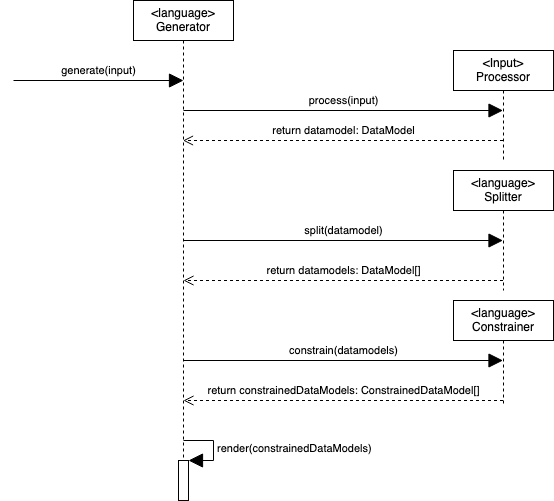
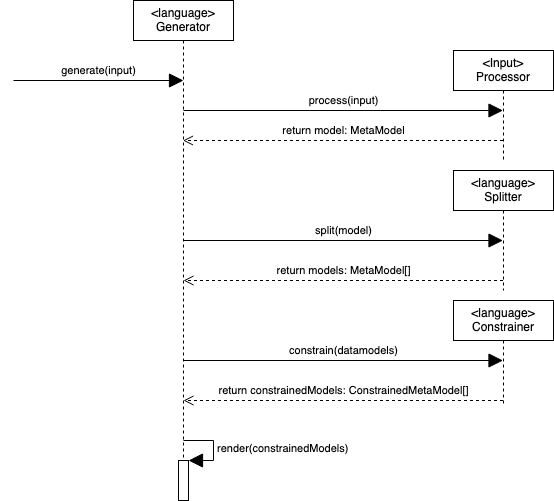
Added missing changes

diff --git a/docs/README.md b/docs/README.md
@@ -4,7 +4,7 @@
 
 <!-- toc -->
 
-- [The data model](#the-data-model)
+- [The Processing](#the-processing)
 - [Contributing](#contributing)
 - [Usage](#usage)
 - [Advanced](#advanced)
@@ -19,10 +19,10 @@
 
 This document gives the overview of all the available documentation for Modelina.
 
-### [The data model](./data%20model.md)
-The underlying data model, which the processors turn input into and what generators use for their output. 
+### [The Processing](./processing.md)
+Contains information how the internals of the processing works.
 
-This document contains all the information you need to understand the internal data model and processes.
+This document contains all the information you need to understand the internal MetaModel and processes.
 
 ### [Contributing](./contributing.md)
 Contains all the information you need to contribute to this project.

diff --git a/README.md b/README.md
@@ -66,7 +66,7 @@ To see the complete feature list for each language, please click the individual 
     <th>description</th>
   </tr>
   <tr>
-    <td><a href="./docs/usage.md##generate-models-from-asyncapi-documents">AsyncAPI</a></td>
+    <td><a href="./docs/usage.md#generate-models-from-asyncapi-documents">AsyncAPI</a></td>
     <td>We support the following AsyncAPI versions: <em>2.0.0, 2.1.0 and 2.2.0</em>, which generates models for all the defined message payloads.</td>
   </tr>
   <tr>
